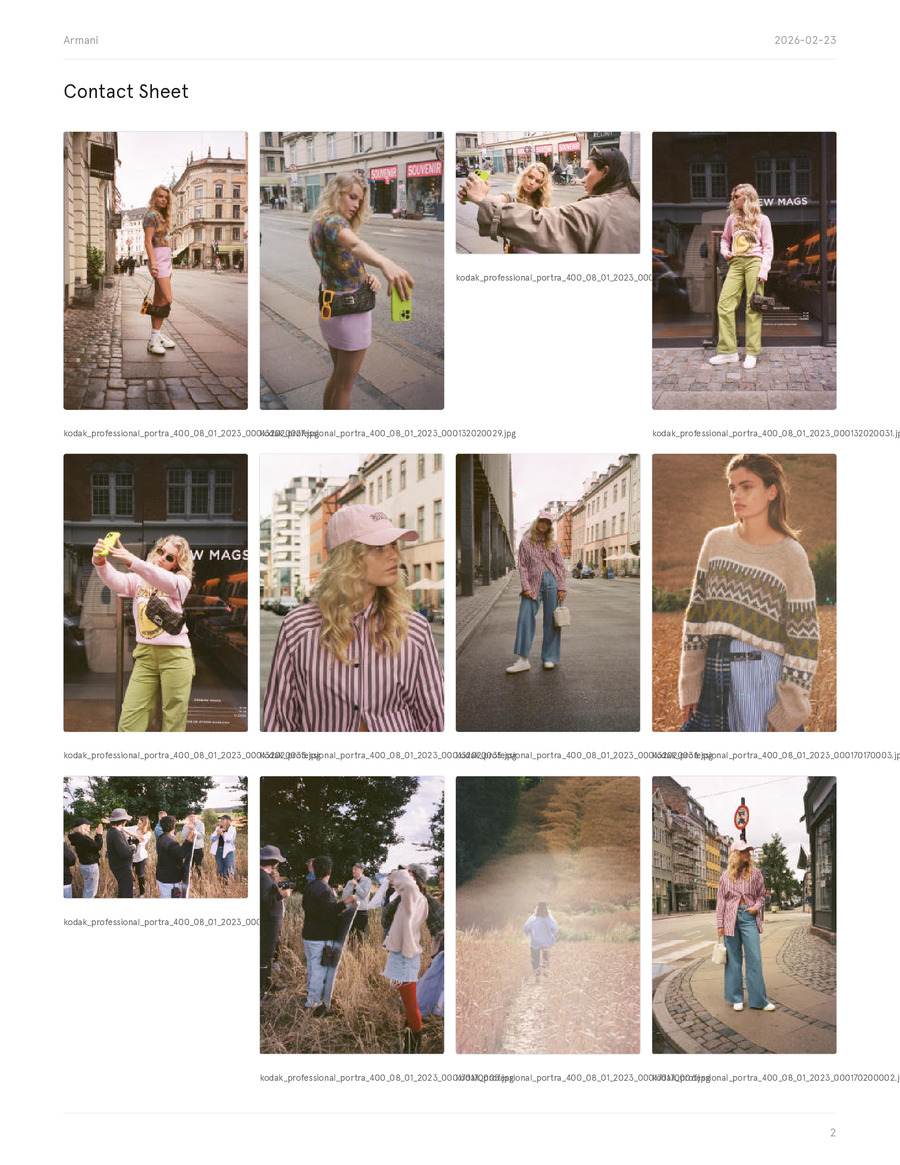
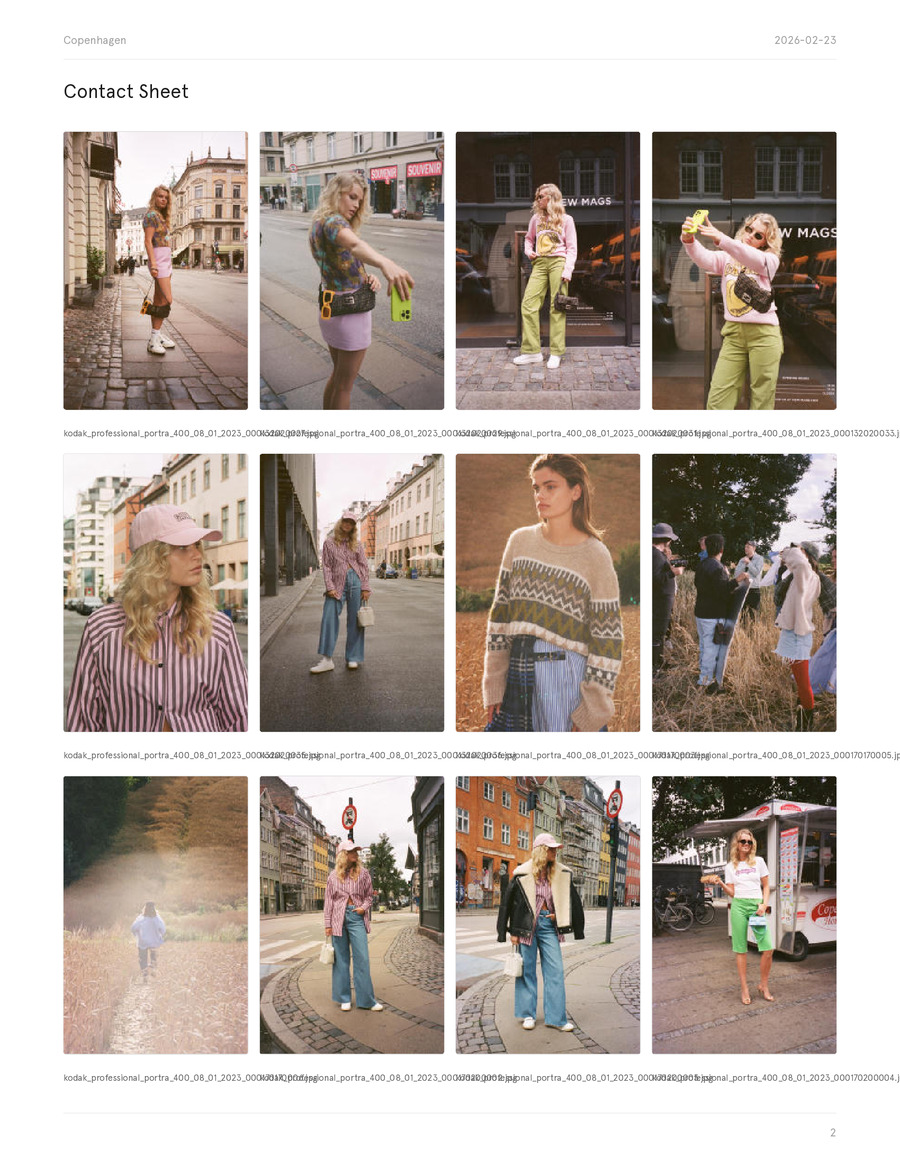
Update landing page: Copenhagen Portra 400 vertical-only screenshots
Regenerated PDF with Copenhagen film scans filtered to vertical-only images
for consistent contact sheet grid. Updated terminal snippet to match.

diff --git a/docs/index.html b/docs/index.html
@@ -391,8 +391,8 @@
     <p class="hero-sub">One command. Zero configuration. Apercu Pro.</p>
     <hr class="hero-rule">
     <div class="hero-terminal">
-      <div><span class="prompt">$</span> <span class="cmd">proof ./finals</span> <span class="flag">--client</span> <span class="string">"Armani"</span> <span class="flag">--title</span> <span class="string">"SS26 Campaign"</span></div>
-      <div style="margin-top: 0.75rem;"><span class="output">Done: armani-delivery-2026-02-23.pdf (189 assets)</span></div>
+      <div><span class="prompt">$</span> <span class="cmd">proof ./finals</span> <span class="flag">--client</span> <span class="string">"Copenhagen"</span> <span class="flag">--title</span> <span class="string">"Portra 400"</span></div>
+      <div style="margin-top: 0.75rem;"><span class="output">Done: copenhagen-delivery-2026-02-23.pdf (27 assets)</span></div>
     </div>
   </div>
 
